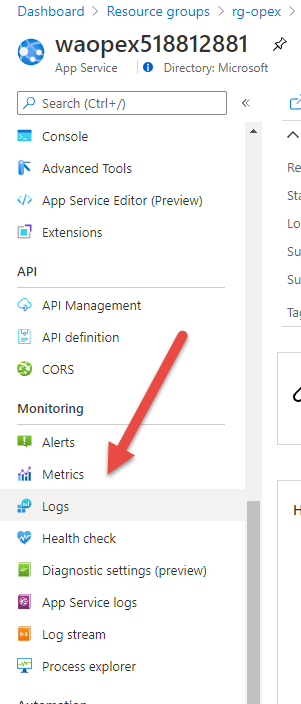
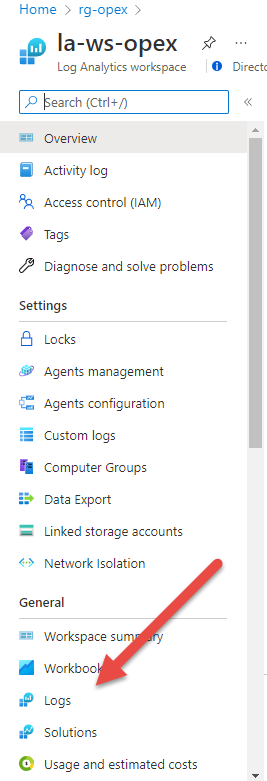
updated text and images on Queries

diff --git a/README.md b/README.md
@@ -322,14 +322,14 @@ Now lets learn how to write and execute a KQL Query against Log Analytics.
 1. Navigate to https://portal.azure.com
 2. Ensure you are in your subscription
 3. Navigate to the rg-opex resource group
-4. Click on your App Service Web Item Item
-5. In the Monitoring Section click on Logs
+4. Click on your Log Analytics Workspace Item Item
+5. In the GeneraL Section click on Logs
 
     ![image](./media/4.png)
 
 6. Close the 'Queries' dialog window.
 
-    ![image](./media/3a.png)
+    ![image](./media/4a.png)
 
 7. Enter the following KQL in the query text box and click Run. Then above the results click on Chart.
     ```kql
@@ -339,7 +339,7 @@ Now lets learn how to write and execute a KQL Query against Log Analytics.
         | summarize avg(TimeTaken), percentiles(TimeTaken, 90, 95, 99) by CsHost
     ```
 
-    ![image](./media/5.png)
+    ![image](./media/4b.png)
 
 # Clean Up
 [Back to Activities List](#activities)
